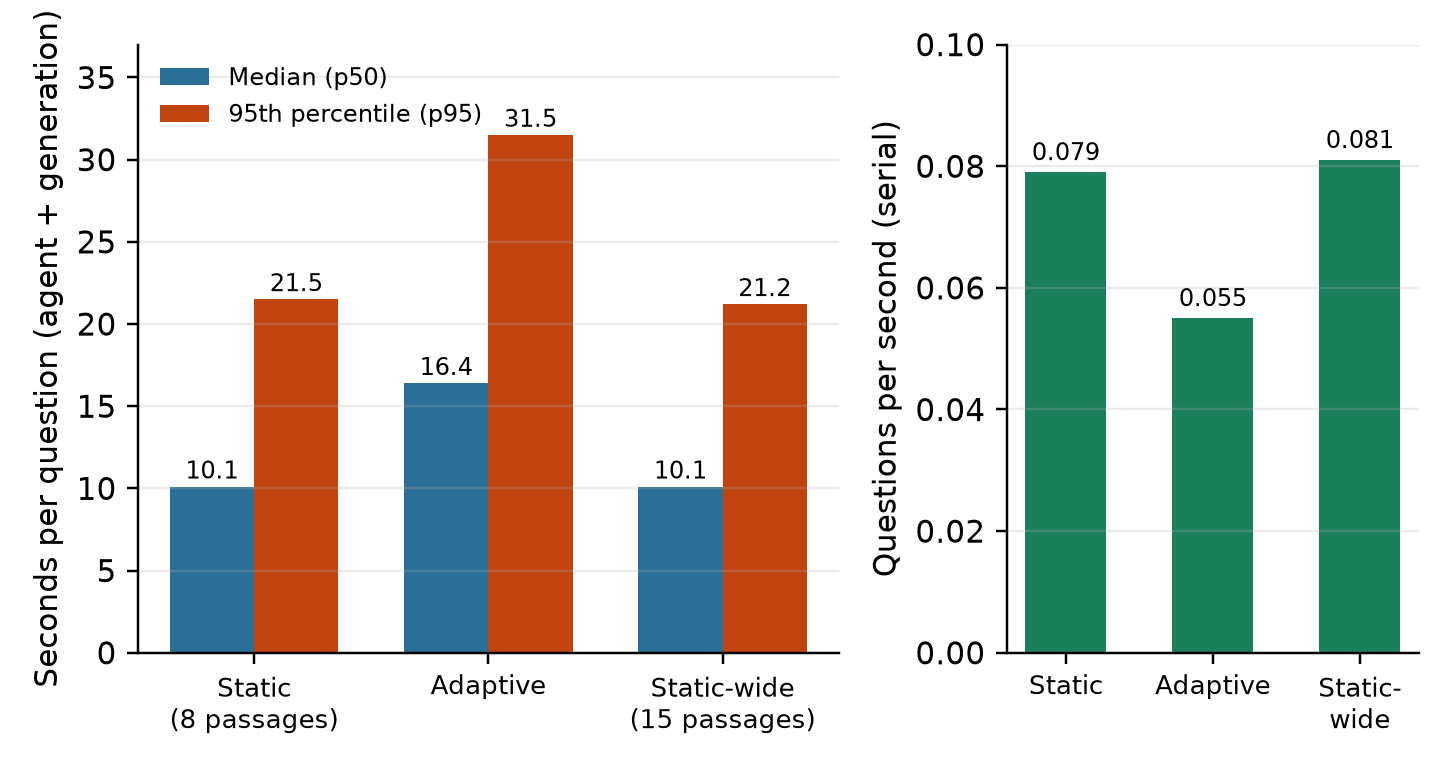
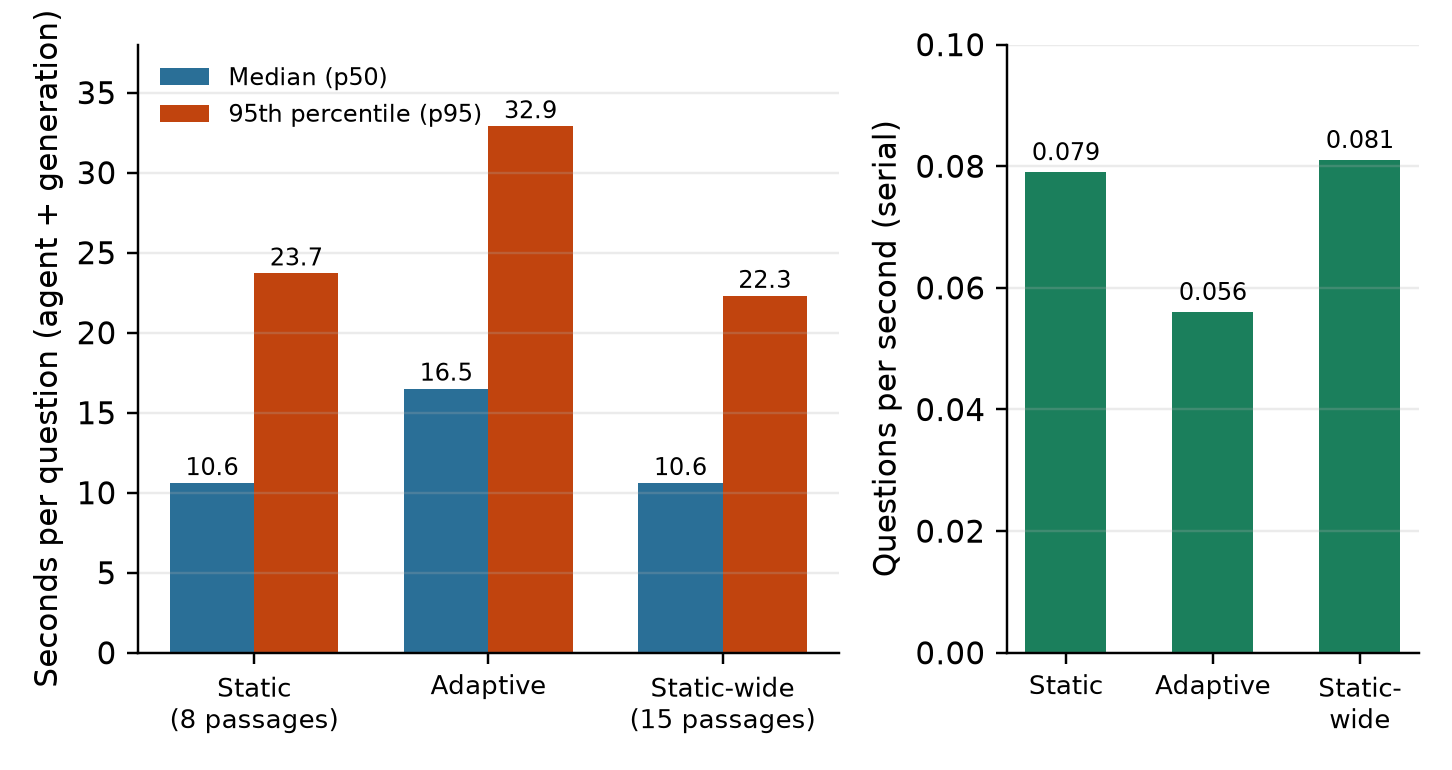
docs(report): put latency on all 200 records, correct the interval and status wording, redraw the figures and add a reproducibility note

diff --git a/report/sections/04-discussion.tex b/report/sections/04-discussion.tex
@@ -15,7 +15,7 @@ Static top ten & 0.974 & 30/32 & $\leq 10$\\\bottomrule
 The generator-view critic run (job 51172) improves mean evidence recall over static top five by 0.031, with a reported 95\% paired bootstrap interval of [0.000, 0.094] (2,000 resamples). At a matched passage budget, its difference from plain retrieval is $-0.042$, with interval [$-0.135$, 0.062]. Neither supports a reliable adaptive advantage. Static top eight recovers substantially more evidence on this slice. The agent audit further reports that 95.7\% of retries add no gold passage and 56.5\% occur when all gold is already retrieved. These observations suggest that critic calibration and stopping, rather than query wording alone, limit this implementation.
 
 \begin{review}{Strength and provenance of agent evidence}
-The development table and intervals are transcribed from the agent experiment contribution (jobs 50701, 50977, 51172, 51521; the cluster outputs are in the team's delivery archives). The held-out tables below are scored from job 51585 with the frozen record \texttt{configs/p4\_freeze.json}; the scoring script refused any run whose manifest differed from the record. Each configuration was run once. Bootstrap intervals resample questions, not papers, unlike the paired retrieval comparison above. Part of the held-out list (40 questions) was read by the agent developer before the freeze, hence the 160-question column.
+The development table and intervals are transcribed from the agent experiment contribution (jobs 50701, 50977, 51172, 51521; the cluster outputs are in the team's delivery archives). The held-out tables below are scored from job 51585 with the frozen record \texttt{configs/p4\_freeze.json}; the scoring script refused any run whose manifest differed from the record. Each configuration was run once. The recall intervals resample questions (2{,}000 resamples, seed 0); the F1 and RAGAS intervals resample papers (1{,}000 resamples, seed 42), like the paired retrieval comparison above. Part of the held-out list (40 questions) was read by the agent developer before the freeze, hence the 160-question column.
 \end{review}
 
 \subsection{Held-out evaluation of the agent}\label{sec:agent-heldout}
@@ -44,6 +44,8 @@ The generated answers were scored against the QASPER reference answers with the 
 
 \paragraph{Reading.}
 On unseen questions the loop behaves as it did on the development slice. It found a gold passage that plain top-eight retrieval missed on 2\% of questions, at the price of 88 retries, about 5.6\,s of agent time per question and three false refusals, and it does no better than reading the same number of passages; the answers it produces score no better (F1 0.366 against 0.368). All of this is at the primary 1{,}200-character budget; a 2{,}500-character budget removes about a fifth of the retries but not the finding (Section~\ref{sec:context}). The result does not support the claim that evidence-gap-driven retrieval improves recall. It supports the narrower claims that the loop never lowered recall, that its critic is usable but over-strict, and that retrieval depth is the factor that matters.
+
+\paragraph{Reproducibility.} The held-out results come from job 51585 at code commit \texttt{ad02d51} with a prompt of eight passages of at most 1{,}200 characters; the code default has since been raised to 2{,}500, so later commits need \texttt{MAX\_CHARS\_PER\_PASSAGE=1200}. The per-question records, scores, inputs and checksums are in the accompanying data package under \texttt{p4/} (\texttt{results/final/p4/} in the repository).
 
 \subsection{Context budget: a post-hoc sensitivity analysis}\label{sec:context}
 The generator renders at most eight passages and cuts each at a character limit. The primary result, whose configuration was fixed before any held-out question was run, used 1{,}200 characters; every result above is from that run. After the primary run had finished, we repeated the configuration with 2{,}500 characters per passage, first on the 40 development questions and then on the same 200 held-out questions. Both are \emph{post-hoc sensitivity analyses}: they were decided with the primary result known, they are not part of the frozen protocol, and they do not replace the primary result, which stands unchanged.
@@ -118,6 +120,6 @@ Three held-out questions illustrate what the loop does well and badly. All three
 \input{review-checks/q5}
 
 \section{Conclusions, limitations and future work}
-Current evidence supports hybrid retrieval as a useful baseline and argues against retaining this reranker configuration. On the frozen held-out run, increasing the initial retrieval depth recovers more evidence than adaptive retries: the evidence-gap loop adds 0.013 to the mapped-evidence recall of static top-eight retrieval, adds nothing over reading the same number of passages, and costs about 60\% more median latency. The system provides a working route from a scientific question to a cited answer, and its answers score a token F1 of 0.368 without the loop and 0.366 with it, so the loop's extra model calls bought no measurable answer quality; an LLM judge finds the same faithfulness, relevance and context precision for both arms within its noise (Q4.5). Annotation included AI assistance, and the disagreement reviewer had labelled some disputed pairs. These limitations, the reading of 40 held-out questions by the agent developer before the freeze, the absence of unanswerable questions in the held-out list, and context clipping qualify the findings. The frozen retrieval comparison does not establish held-out downstream performance. Final evaluation should determine whether the agent's additional model calls provide an answer-quality benefit under a fixed evidence budget. In post-hoc checks a larger per-passage context budget improved citation grounding on the development slice, reduced citation-provenance warnings on the held-out questions and cut the critic's retries in both, but it changed neither recall nor answer F1 measurably (Section~\ref{sec:context}); it has not been adopted as the primary configuration.
+Current evidence supports hybrid retrieval as a useful baseline and argues against retaining this reranker configuration. On the frozen held-out run, increasing the initial retrieval depth recovers more evidence than adaptive retries: the evidence-gap loop adds 0.013 to the mapped-evidence recall of static top-eight retrieval, adds nothing over reading the same number of passages, and costs about 56\% more median latency. The system provides a working route from a scientific question to a cited answer, and its answers score a token F1 of 0.368 without the loop and 0.366 with it, so the loop's extra model calls bought no measurable answer quality; an LLM judge finds the same faithfulness, relevance and context precision for both arms within its noise (Q4.5). Annotation included AI assistance, and the disagreement reviewer had labelled some disputed pairs. These limitations, the reading of 40 held-out questions by the agent developer before the freeze, the absence of unanswerable questions in the held-out list, and context clipping qualify the findings. The frozen retrieval comparison does not establish held-out downstream performance. Final evaluation should determine whether the agent's additional model calls provide an answer-quality benefit under a fixed evidence budget. In post-hoc checks a larger per-passage context budget improved citation grounding on the development slice, reduced citation-provenance warnings on the held-out questions and cut the critic's retries in both, but it changed neither recall nor answer F1 measurably (Section~\ref{sec:context}); it has not been adopted as the primary configuration.
 
 Future work should first address these limitations. Sentence-aware evidence selection or a larger context budget could reduce the loss of useful text through truncation; both should be tested against the current prompt budget. The critic should be calibrated to avoid unnecessary retries and evaluated against static top-eight retrieval at comparable evidence and latency budgets. Stronger evaluation could add independent third-person review of disagreement resolutions, a fresh downstream evaluation set frozen before system selection, and repeated runs to quantify variability. Finally, indexing table and figure text could extend coverage beyond the current full-text passages. These are proposed experiments; their effects on answer quality and cost remain to be measured.

diff --git a/report/sections/03-evaluation.tex b/report/sections/03-evaluation.tex
@@ -80,20 +80,20 @@ Final generation timing. In job 51585, answer generation on one A40 (warm engine
 Populate elapsed wall time, processed-question count, successful answers, latency percentiles and judge cost from a single documented final setup. Separate startup, fresh inference and cache-hit timing. Historical cluster timings summarized in the workbook lack raw local records and are not used here as final benchmark results.
 \end{review}
 
-End-to-end timing comes from the frozen held-out run (job 51585): 200 questions per arm, one NVIDIA A40, Qwen3-8B in bfloat16 through vLLM 0.11.0, retrieval on CPU, one request at a time with the engine warm and no score cache. Latency is agent time plus generation time per question; throughput divides the questions by the wall-clock time the runner measured for each arm, not by summed latencies (Table~\ref{tab:perf}). The two answers per arm that the validator downgraded after a parse error count as technical errors in the evaluation tool, so percentiles use 198 questions.
+End-to-end timing comes from the frozen held-out run (job 51585): 200 questions per arm, one NVIDIA A40, Qwen3-8B in bfloat16 through vLLM 0.11.0, retrieval on CPU, one request at a time with the engine warm and no score cache. Latency is agent time plus generation time per question; throughput divides the questions by the wall-clock time the runner measured for each arm, not by summed latencies (Table~\ref{tab:perf}). Percentiles are over all 200 records per arm, including the two answers per arm that the validator downgraded after a parse error, which are among the slowest (about 33\,s of generation each).
 \begin{table}[htbp]\centering\small
-\caption{Held-out end-to-end performance, 200 questions per arm, serial requests on one A40. Tokens are the generator's totals.}\label{tab:perf}
+\caption{Held-out end-to-end performance, 200 questions per arm, serial requests on one A40. Percentiles are over all 200 records per arm. Tokens are the generator's totals.}\label{tab:perf}
 \begin{tabular}{lrrrrrr}\toprule
 Arm & Wall time (s) & Questions/s & p50 (s) & p95 (s) & Prompt tokens & Output tokens\\\midrule
-Static (8 passages) & 2{,}519 & 0.079 & 10.1 & 21.5 & 934{,}334 & 73{,}586\\
-Adaptive & 3{,}583 & 0.055 & 16.4 & 31.5 & 928{,}803 & 74{,}598\\
-Static-wide (15 passages) & 2{,}456 & 0.081 & 10.1 & 21.2 & 934{,}460 & 73{,}573\\\bottomrule
+Static (8 passages) & 2{,}519 & 0.079 & 10.6 & 23.7 & 934{,}334 & 73{,}586\\
+Adaptive & 3{,}583 & 0.056 & 16.5 & 32.9 & 928{,}803 & 74{,}598\\
+Static-wide (15 passages) & 2{,}456 & 0.081 & 10.6 & 22.3 & 934{,}460 & 73{,}573\\\bottomrule
 \end{tabular}
 \end{table}
 \begin{figure}[htbp]\centering
 \includegraphics[width=0.92\linewidth]{images/latency-by-arm.png}
-\caption{Held-out latency per question (left; agent plus generation time, one A40, serial requests) and throughput (right) by arm, the values of Table~\ref{tab:perf}. The retry loop raises median latency by about 60\% and lowers throughput by about 30\%.}\label{fig:latency}
+\caption{Held-out latency per question (left; agent plus generation time, one A40, serial requests) and throughput (right) by arm, the values of Table~\ref{tab:perf}. The retry loop raises median latency by about 56\% and lowers throughput by about 30\%.}\label{fig:latency}
 \end{figure}
-Generation dominates: retrieval and fusion take 0.04\,s per question on the cluster CPU, against about 12\,s for the answer. The agent loop adds a mean 5.6\,s per question, 251 critic calls over 200 questions, and raises median latency by about 60\% (16.4 against 10.1\,s) and lowers throughput by about 30\%, for a recall gain of 0.013 (Section~\ref{sec:agent-heldout}). The critic's own token use was not recorded, so the adaptive arm's token total is a lower bound. There is no per-call monetary cost, because the model is served locally; GPU time was 2\,h 23\,min for the three arms. The RAGAS judge (Q4.5) was a paid hosted model: scoring the two arms took about 2.5 hours and cost about 0.63 Singapore dollars, as reported by the member who ran it. Concurrent throughput was not measured: calls were serial, and these figures are not a scaling benchmark.
+Generation dominates: retrieval and fusion take 0.04\,s per question on the cluster CPU, against about 12\,s for the answer. The agent loop adds a mean 5.6\,s per question, 251 critic calls over 200 questions, and raises median latency by about 56\% (16.5 against 10.6\,s) and lowers throughput by about 30\%, for a recall gain of 0.013 (Section~\ref{sec:agent-heldout}). The critic's own token use was not recorded, so the adaptive arm's token total is a lower bound. There is no per-call monetary cost, because the model is served locally; GPU time was 2\,h 23\,min for the three arms. The RAGAS judge (Q4.5) was a paid hosted model: scoring the two arms took about 2.5 hours and cost about 0.63 Singapore dollars, as reported by the member who ran it. Concurrent throughput was not measured: calls were serial, and these figures are not a scaling benchmark.
 
 \input{review-checks/q4-6}

diff --git a/report/main.tex b/report/main.tex
@@ -49,11 +49,11 @@ Members are listed alphabetically by displayed full name. Confirm official spell
 \end{review}
 \vfill
 \begin{review}{Draft status}
-The retrieval comparison uses accepted pooled relevance labels and questions excluded from recorded prior development use; the agent was evaluated once on the frozen held-out question list (200 questions, 40 of which the agent developer read during annotation) and the UI measurements remain development results. This does not establish independently held-out downstream performance. Yellow review boxes identify missing evidence, unresolved decisions and suggestions. Pending entries are not zero scores. Overlap QA scores (EM and token F1) and live RAGAS scores are reported; the full factorial ablation remains to be inserted.
+The retrieval comparison uses accepted pooled relevance labels and questions excluded from recorded prior development use; the agent was evaluated on the frozen held-out question list in one pre-declared run (200 questions, 40 of which the agent developer read during annotation), plus one post-hoc sensitivity run at a larger context budget, and the UI measurements remain development results. This does not establish independently held-out downstream performance. Yellow review boxes identify missing evidence, unresolved decisions and suggestions. Pending entries are not zero scores. Overlap QA scores (EM and token F1) and live RAGAS scores are reported; the full factorial ablation remains to be inserted.
 \end{review}
 \end{titlepage}
 \begin{abstract}
-Our system answers questions about NLP research papers using hybrid retrieval and evidence-conditioned generation. The knowledge base contains 28,617 section-aware passages from 1,584 papers with indexed text. BM25 and BGE dense retrieval are combined through reciprocal rank fusion (RRF); a bounded critic loop can request further evidence before Qwen3-8B generates a cited answer or refuses. On 200 questions scored against accepted pooled relevance labels, RRF achieves MRR@5 of 0.804, compared with 0.730 for BM25 and 0.799 for dense retrieval. Reranking reduces all four reported top-five metrics. On a 32-question development slice, static top-eight retrieval recovers more mapped evidence than adaptive top-five retrieval, which motivates a top-eight RRF configuration without reranking. On 200 held-out questions the frozen configuration reaches a mapped-evidence recall of 0.858 without the agent loop and 0.871 with it; at an equal number of passages the loop's gain is 0.001 (95\% interval $-0.014$ to $0.016$), so we do not claim that evidence-gap-driven retrieval improves recall. The agent's critic and retries add about 60\% to median latency. Token F1 of the generated answers against the QASPER references is 0.368 without the loop and 0.366 with it (difference $-0.002$, 95\% interval $-0.011$ to $0.006$), so the loop does not improve answers either. These findings do not establish independently held-out downstream performance.
+Our system answers questions about NLP research papers using hybrid retrieval and evidence-conditioned generation. The knowledge base contains 28,617 section-aware passages from 1,584 papers with indexed text. BM25 and BGE dense retrieval are combined through reciprocal rank fusion (RRF); a bounded critic loop can request further evidence before Qwen3-8B generates a cited answer or refuses. On 200 questions scored against accepted pooled relevance labels, RRF achieves MRR@5 of 0.804, compared with 0.730 for BM25 and 0.799 for dense retrieval. Reranking reduces all four reported top-five metrics. On a 32-question development slice, static top-eight retrieval recovers more mapped evidence than adaptive top-five retrieval, which motivates a top-eight RRF configuration without reranking. On 200 held-out questions the frozen configuration reaches a mapped-evidence recall of 0.858 without the agent loop and 0.871 with it; at an equal number of passages the loop's gain is 0.001 (95\% interval $-0.014$ to $0.016$), so we do not claim that evidence-gap-driven retrieval improves recall. The agent's critic and retries add about 56\% to median latency. Token F1 of the generated answers against the QASPER references is 0.368 without the loop and 0.366 with it (difference $-0.002$, 95\% interval $-0.011$ to $0.006$), so the loop does not improve answers either. These findings do not establish independently held-out downstream performance.
 \end{abstract}
 \tableofcontents
 \input{sections/01-system}

diff --git a/results/final/p4/README.md b/results/final/p4/README.md
@@ -49,8 +49,9 @@ A second folder, `development-ablation/`, holds the 2 x 2 ablation of rewriting 
 - **Role label.** After the team's sign-off on 6 November (question use, the frozen list and the freeze; the review file is `held-out/review/final-evaluation-review.json`), the `evidence/`, `qa/` and `compare/` outputs were rerun with `--role held_out` and carry that label; the numbers are identical to the earlier development-labelled runs. The retrieval scores in `score-*/` used `--role held-out` from the start. Still labelled `development`: the RAGAS outputs (they can be relabelled by rerunning with the review file), `sensitivity-2500/` (a post-hoc run whose prompt budget differs from the frozen record) and `development-ablation/` (development questions). `performance/` has no role. The `qa/` outputs reproduce P5's scoring; P5's own outputs give identical figures (static F1 0.3681, adaptive 0.3656).
 - **Scoring policy.** EM and F1 use the project's proposed scorer (`p6-qa-v0-proposed`, best-matching reference), not the
   official QASPER evaluator. EM is near zero because the generator writes sentences and the references are short spans.
-- **Timing** is one A40, one request at a time, warm engine, no score cache; the scorer counts the two validator-downgraded
-  answers per arm as technical errors, so latency percentiles use 198 questions. Critic token use was not recorded.
+- **Timing** is one A40, one request at a time, warm engine, no score cache; latency percentiles in the report use all 200 records per arm
+  (`performance/latency-all-200/`); the P6 tool's own output in `performance/<arm>/` counts the two validator-downgraded answers per arm as
+  errors and so uses 198. Critic token use was not recorded.
 - **RAGAS caveats.** The judge is a hosted LLM (`qwen-plus-2025-12-01` via DashScope), so the scores are model judgments, not human verification; the run did not store the rendered prompts, so the contexts (confirmed to be the exact rendered text) were produced afterwards; DashScope's embeddings endpoint needed a wrapper (`ragas/kit/run_p6_evaluation_dashscope.py`) that sets `check_embedding_ctx_length=False` while the evaluator itself is unmodified; refusals and failures are excluded from each denominator; the outputs carry the `development` role label.
 - Manifests keep their producer paths (local paths on the producing machines); read them as historical.
 

diff --git a/results/final/p4/RESULTS.md b/results/final/p4/RESULTS.md
@@ -81,14 +81,15 @@ both arms. See `README.md` for the judge caveats.
 
 ## 5. Performance
 
-`performance/` (one A40, serial requests, per-arm wall time measured by the runner; latency = agent time plus
-generation time per question, n = 198 after the scorer's technical errors):
+`performance/latency-all-200/` (one A40, serial requests, per-arm wall time measured by the runner; latency = agent time plus
+generation time per question, all 200 records per arm, including the two validator-downgraded answers; the P6 tool's output
+in `performance/<arm>/` excludes those and uses 198 records, giving 10.1 / 16.4 / 10.1 s medians):
 
 | Arm | Wall time (s) | Questions/s | p50 (s) | p95 (s) | Prompt tokens | Output tokens |
 | --- | ---: | ---: | ---: | ---: | ---: | ---: |
-| static | 2,519 | 0.079 | 10.1 | 21.5 | 934,334 | 73,586 |
-| adaptive | 3,583 | 0.055 | 16.4 | 31.5 | 928,803 | 74,598 |
-| static-wide | 2,456 | 0.081 | 10.1 | 21.2 | 934,460 | 73,573 |
+| static | 2,519 | 0.079 | 10.6 | 23.7 | 934,334 | 73,586 |
+| adaptive | 3,583 | 0.056 | 16.5 | 32.9 | 928,803 | 74,598 |
+| static-wide | 2,456 | 0.081 | 10.6 | 22.3 | 934,460 | 73,573 |
 
 Tokens are the generator's. The critic's tokens were not recorded (251 critic calls, 2 escalations), so the adaptive
 arm's totals are lower bounds. Retrieval takes about 0.04 s per question; the agent loop adds a mean 5.6 s. Cost is

diff --git a/results/final/p4/held-out/performance/latency-all-200/README.md b/results/final/p4/held-out/performance/latency-all-200/README.md
@@ -1,0 +1,1 @@
+Latency on all 200 records per arm (P4, from the run records): end-to-end (agent + generation) and generation-only p50/p95 with the P6 tool's interpolated percentile convention, and completed-request throughput from the runner's per-arm wall time. The `performance/<arm>/` folders hold the P6 tool's output, which counts the two validator-downgraded answers per arm as errors and so uses 198 records. The report uses these all-200 figures.
